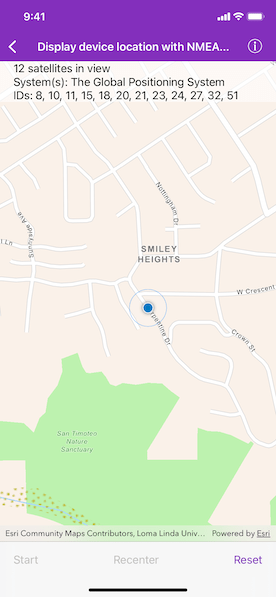
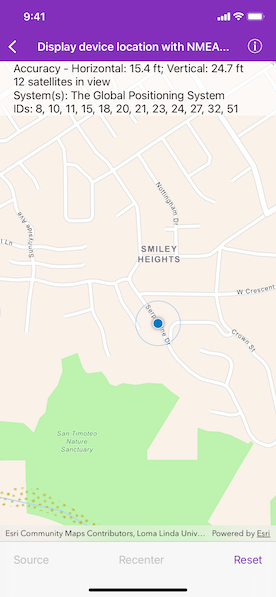
Update doc and screenshot.

diff --git a/arcgis-ios-sdk-samples/Maps/Display device location with NMEA data sources/README.md b/arcgis-ios-sdk-samples/Maps/Display device location with NMEA data sources/README.md
@@ -6,18 +6,22 @@ Parse NMEA sentences and use the results to show device location on the map.
 
 ## Use case
 
-NMEA sentences can be retrieved from GPS receivers and parsed into a series of coordinates with additional information. Devices without a built-in GPS receiver can retrieve NMEA sentences by using a separate GPS dongle, commonly connected bluetooth or through a serial port.
+NMEA sentences can be retrieved from GPS receivers and parsed into a series of coordinates with additional information. Devices without a built-in GPS receiver can retrieve NMEA sentences by using a separate GPS dongle, commonly connected Bluetooth or through a serial port.
 
 The NMEA location data source allows for detailed interrogation of the information coming from the GPS receiver. For example, allowing you to report the number of satellites in view.
 
 ## How to use the sample
 
-Tap "Start" to parse the NMEA sentences into a simulated location data source, and initiate the location display. Tap "Recenter" to recenter the location display. Tap "Reset" to reset the location display.
+Tap "Source" to choose between a simulated location data source and any data source created from a connected GNSS device, and initiate the location display. Tap "Recenter" to recenter the location display. Tap "Reset" to reset the location display and location data source.
 
 ## How it works
 
-1. Load NMEA sentences from a local file.
-2. Parse the NMEA sentence strings, and push data into `AGSNMEALocationDataSource`.
+1. Load NMEA sentences.
+    * If a supported GNSS surveyor is connected, the sample can get NMEA updates from it.
+    * Otherwise, the sample will read mock data from a local file.
+2. Create an `AGSNMEALocationDataSource`. There are 2 methods to provide updates to the data source.
+    * When updates are received from a GNSS device or the mock data provider, push the data into `AGSNMEALocationDataSource`.
+    * In the Runtime SDK 100.11.0 release, it is also supported to create an `AGSNMEALocationDataSource` with the GNSS device connected via `EAAccessory` and its protocol listed in `UISupportedExternalAccessoryProtocols`.
 3. Set the `AGSNMEALocationDataSource` to the location display's data source.
 4. Start the location display to begin receiving location and satellite updates.
 
@@ -34,6 +38,19 @@ A list of NMEA sentences is used to initialize a `SimulatedNMEADataSource` objec
 
 The route taken in this sample features a [2-minute driving trip around Redlands, CA](https://arcgis.com/home/item.html?id=d5bad9f4fee9483791e405880fb466da).
 
+## Additional Information
+
+To support GNSS device connection in an app, here are a few steps:
+
+* Enable Bluetooth connection in the Settings, or connect via Lightning connector.
+* Refer to the device manufacturer's documentation to get its protocol string, and add the protocol to the app’s `Info.plist` under the key `UISupportedExternalAccessoryProtocols`.
+* When working with any MFi accessory, the end user must register their iOS app with the accessory manufacturer first to whitelist their app before submitting it to the AppStore for approval. This is a requirement by Apple and stated in the iOS Developer Program License Agreement.
+
+Please read Apples documentation below for further details.
+
+* [`EAAccessory`](https://developer.apple.com/documentation/externalaccessory)
+* [`UISupportedExternalAccessoryProtocols`](https://developer.apple.com/documentation/bundleresources/information_property_list/uisupportedexternalaccessoryprotocols)
+
 ## Tags
 
-dongle, GPS, history, navigation, NMEA, real-time, trace
+Bluetooth, dongle, GNSS, GPS, history, navigation, NMEA, real-time, trace
